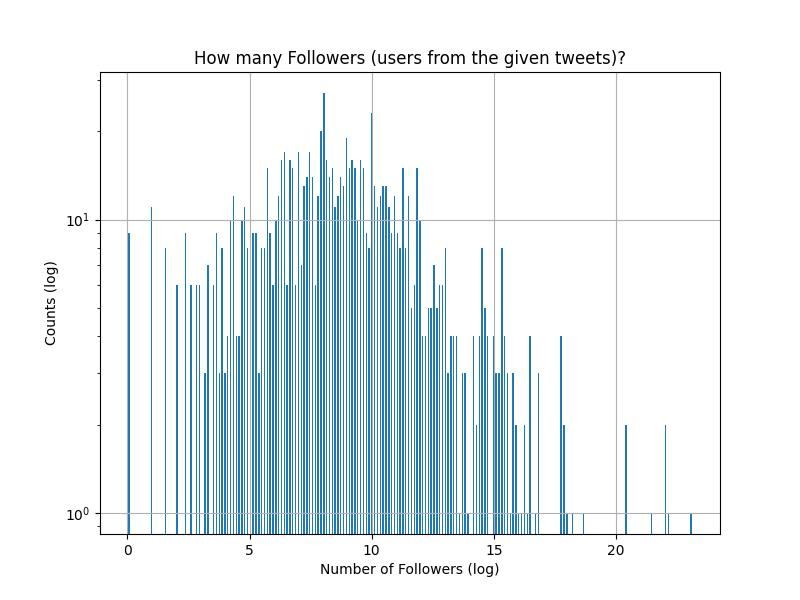
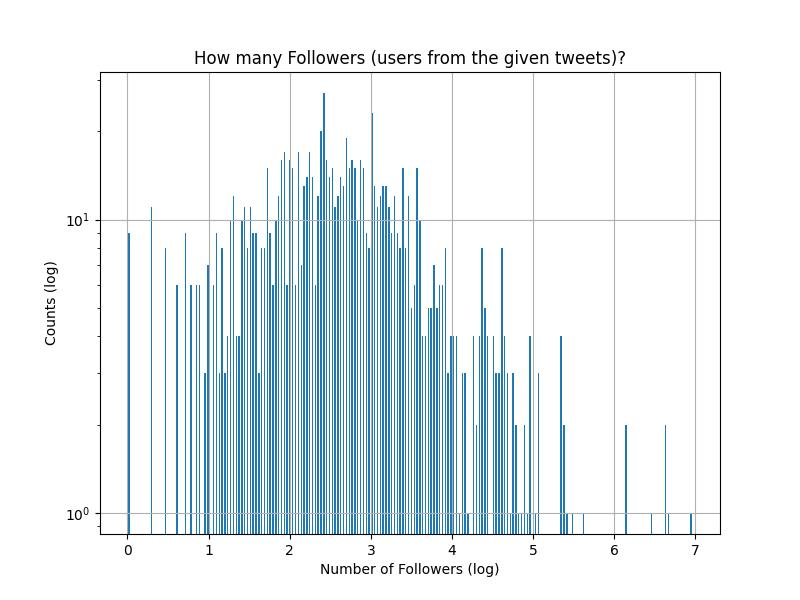
bug fixed

diff --git a/week2/basic_stat_analysis.py b/week2/basic_stat_analysis.py
@@ -10,7 +10,7 @@ import matplotlib
 import nltk
 from konlpy.tag import Okt
 from matplotlib import pyplot as plt
-from numpy import log2
+from numpy import log2, log10
 
 from pathlib import Path
 
@@ -119,7 +119,7 @@ class BasicStat:
 
         if loglog:
             plt.figure(figsize=(8, 6))
-            plt.hist(log2(list(filter(lambda i: i > 0, data))), log=True, bins=200, rwidth=0.5)
+            plt.hist(log10(list(filter(lambda i: i > 0, data))), log=True, bins=200, rwidth=0.5)
             plt.title(title)
             plt.xlabel(f"{x_axis} (log)")
             plt.ylabel(f"{y_axis} (log)")
@@ -345,7 +345,7 @@ if __name__ == '__main__':
     for data_name, tok_lang in zip(data_names, tok_langs):
         basic_stat = BasicStat(data_name=data_name, tokenizer_lang=tok_lang)
         with open(f"{data_name}-stat.txt", 'w') as sys.stdout:
-            basic_stat.stat_tweet_created()
+            basic_stat.stat_tweet_creatxed()
             basic_stat.plot_tweet_created()
 
             basic_stat.stat_user_created()
